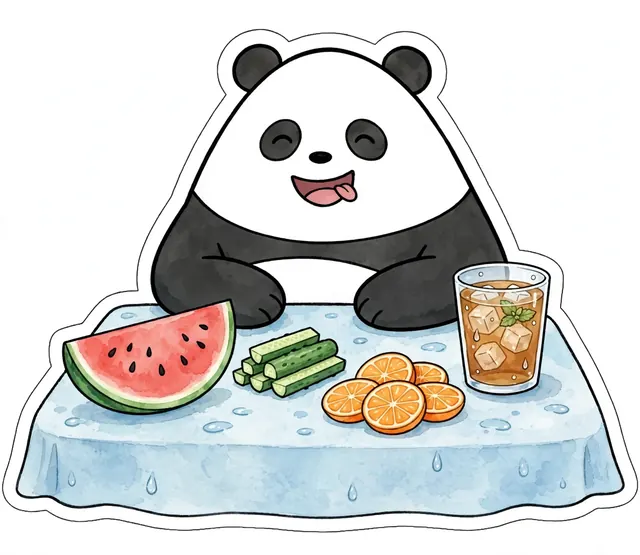
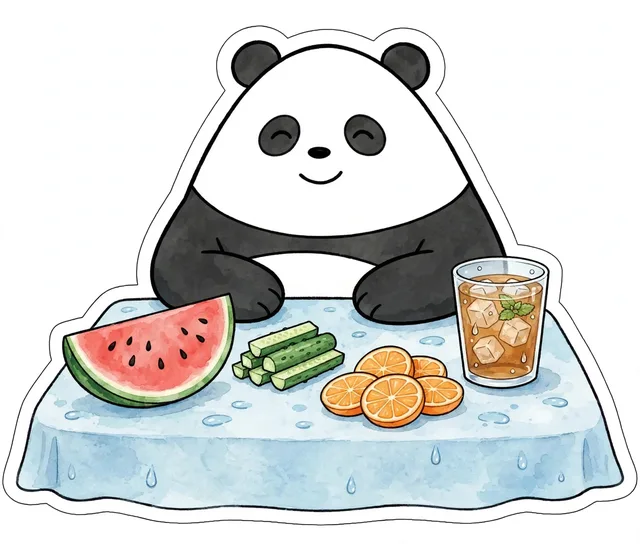
陰の食卓イラスト：パンダの口から出ていたベロを修正

diff --git a/index.html b/index.html
@@ -3448,7 +3448,7 @@
       <p class="inyo-h">3つの食卓</p>
       <div class="inyo-tables">
         <figure>
-          <img loading="lazy" src="inyo-yin.webp" alt="すいか、きゅうり、柑橘と冷たい麦茶が並ぶ、涼しい食卓のパンダのイラスト" width="640" height="555" style="height:auto">
+          <img loading="lazy" src="inyo-yin.webp" alt="すいか、きゅうり、柑橘と冷たい麦茶が並ぶ、涼しい食卓のパンダのイラスト" width="640" height="544" style="height:auto">
           <figcaption><span class="cap-yin">陰の食卓</span><span class="cap-sub">冷やして、ゆるめる</span></figcaption>
         </figure>
         <figure>
